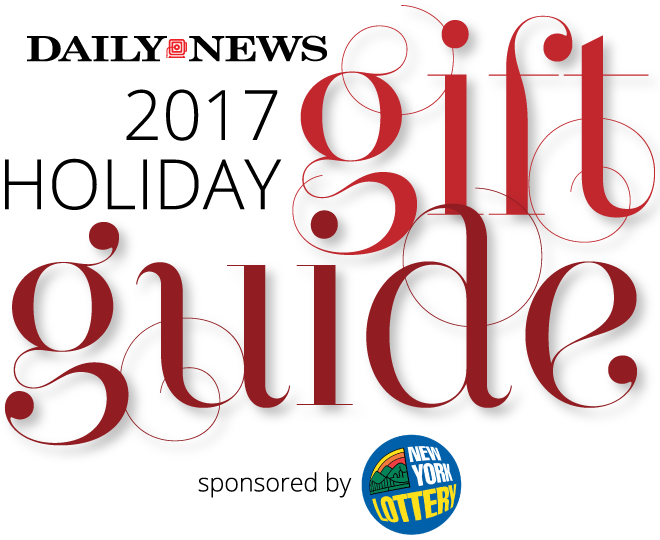
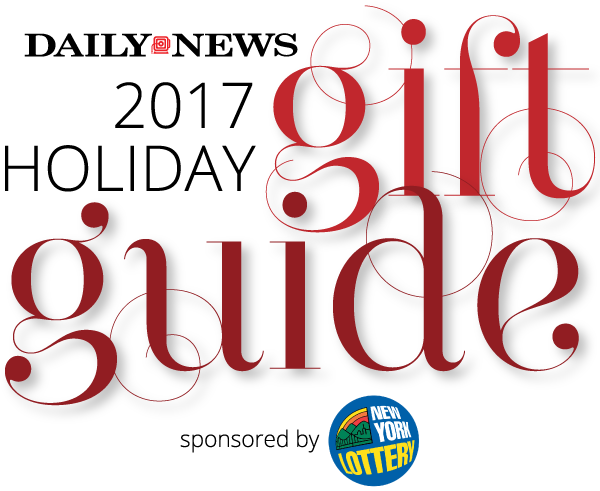
scaled main image down and updated handheld styles

diff --git a/www/index.html b/www/index.html
@@ -190,13 +190,11 @@
 	</article>
 </main>
 
-<!--   <div class="ad center">
+<div class="ad center">
 	<div id='div-gpt-ad-1423507761396-3'>
-	  <script>
-		googletag.cmd.push(function() { googletag.display('div-gpt-ad-1423507761396-3'); });
-	  </script>
+		<script>googletag.cmd.push(function() { googletag.display('div-gpt-ad-1423507761396-3'); });</script>
 	</div>
-  </div> -->
+</div>
 
 <!-- CONTENT-END -->
 
@@ -218,11 +216,11 @@
 
 <script type="text/javascript">
 	$('main').append('<canvas id="confetti" style="z-index:1;position:fixed; top: 0; left: 0; width: 100%; height: 100%;"></canvas">');
-        var s = document.createElement('script');
-        s.setAttribute('src', 'js/snow.js');
-        s.setAttribute('onload', "window.setTimeout('DeactivateConfetti(); ', 2000)");
-        document.getElementsByTagName('head')[0].appendChild(s);
-        window.setTimeout('$(\"#confetti\").remove();', 8000);
+		var s = document.createElement('script');
+		s.setAttribute('src', 'js/snow.js');
+		s.setAttribute('onload', "window.setTimeout('DeactivateConfetti(); ', 2000)");
+		document.getElementsByTagName('head')[0].appendChild(s);
+		window.setTimeout('$(\"#confetti\").remove();', 8000);
 </script>
 </body>
 </html>

diff --git a/www/css/main.css b/www/css/main.css
@@ -40,7 +40,7 @@ p.byline {
 	background: url(../img/gift-guide-bg.jpg) no-repeat;
 	background-color: white;
 	background-size: cover;
-	height: 825px;
+	height: 800px;
 }
 
 #bg h1 {
@@ -107,7 +107,7 @@ h2 {
 	}
 
 	.title {
-		top: 95px;
+		top: 155px;
 	}
 
 	.title img {
@@ -115,7 +115,10 @@ h2 {
 	}
 
 	p {
-		margin: 0px 20px;
+		margin: 20px;
+		font-size: 17px;
+		line-height: 25px;
+
 	}
 
 	#content {
